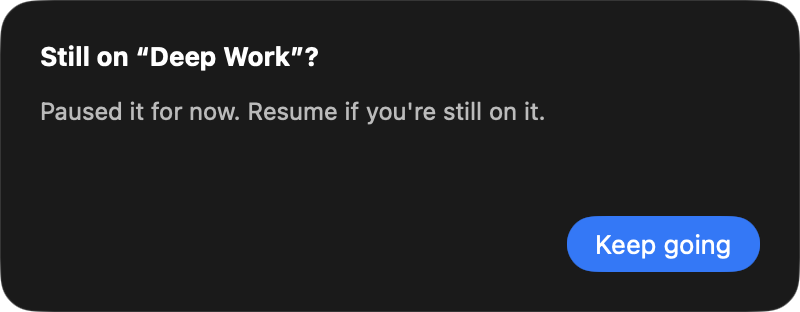
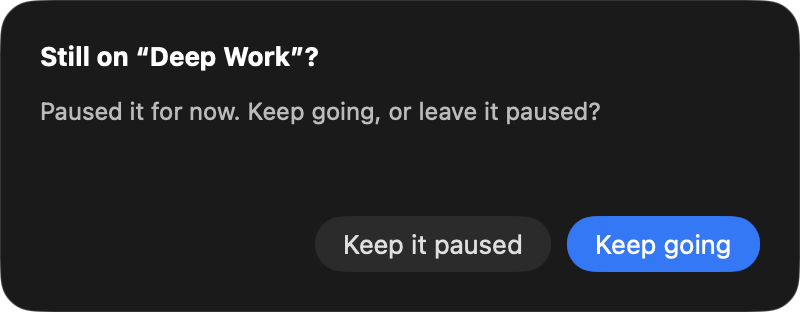
Fix paused pill missing after wake; restore 'Keep it paused' option
- Sleep suspends the run loop, so the menu bar's deferred state refresh was
  missed on wake and the paused task lost its orange pill. Force a full redraw
  (bypassing the title dedup cache) on NSWorkspace.didWakeNotification, and
  nudge a data-change from didWake.
- The still-working prompt only offered 'Keep going'. Restore the explicit
  'Keep it paused' secondary; 'Keep going' stays the highlighted default
  (borderedProminent + Return). Updated the README screenshot to match.

Changed region(s): [[0.3125, 0.3173, 0.75, 0.4038], [0.4062, 0.75, 0.6562, 0.8365]]

diff --git a/Sources/TimesliceApp/AutoPauseController.swift b/Sources/TimesliceApp/AutoPauseController.swift
@@ -72,6 +72,10 @@ final class AutoPauseController: ObservableObject {
     }
 
     @objc private func didWake() {
+        // The run loop is suspended during sleep, so the menu bar's deferred state refresh can be
+        // missed — the paused task ends up without its orange pill. Nudge a refresh on wake.
+        NotificationCenter.default.post(name: TimesliceNotifications.dataDidChange, object: nil)
+
         guard let resume = resumeAfterWake else { return }
         resumeAfterWake = nil
         // Only offer if that task still exists and isn't archived/finished.
@@ -147,9 +151,9 @@ final class AutoPauseController: ObservableObject {
     private func presentStillWorkingPanel(projectID: Int64, name: String) {
         showPrompt(
             title: "Still on “\(name)”?",
-            message: "Paused it for now. Resume if you're still on it.",
-            primary: "Keep going",
-            secondary: nil   // already paused; dismissing the panel just leaves it paused
+            message: "Paused it for now. Keep going, or leave it paused?",
+            primary: "Keep going",       // default — highlighted, Return activates it
+            secondary: "Keep it paused"
         ) { [weak self] keepGoing in
             guard let self else { return }
             self.awaitingResponse = false

diff --git a/Sources/TimesliceApp/StatusBarController.swift b/Sources/TimesliceApp/StatusBarController.swift
@@ -54,6 +54,17 @@ final class StatusBarController: NSObject, NSPopoverDelegate {
                 self?.updateTitle()
             }.store(in: &cancellables)
 
+        // After sleep/wake the run loop was suspended, so a deferred refresh can be missed and
+        // the paused pill never gets drawn. Force a full redraw on wake (bypass the dedup cache).
+        NSWorkspace.shared.notificationCenter.addObserver(
+            forName: NSWorkspace.didWakeNotification, object: nil, queue: .main
+        ) { [weak self] _ in
+            MainActor.assumeIsolated {
+                self?.lastRenderedTitle = nil
+                self?.updateTitle()
+            }
+        }
+
         updateTitle()
     }
 
